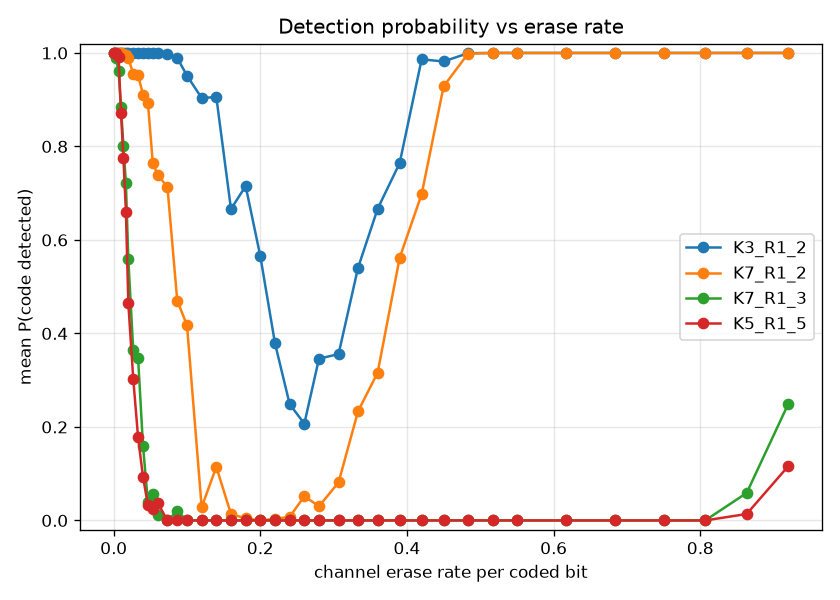
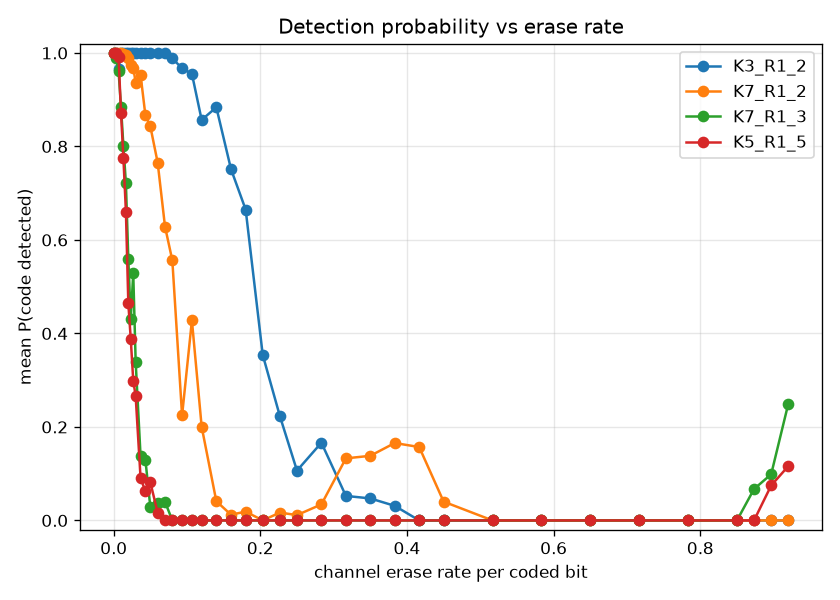
Update metrics

diff --git a/metrics/dv_metrics.c b/metrics/dv_metrics.c
@@ -346,11 +346,11 @@ static const double LOCK_ERASE_RATES[] = {
  * the code's relation window n*(k+1) - the short-window codes (K3_R1_2 most of
  * all) stay detectable far longer, so the flip/insert/delete grids run well past
  * the long-window collapse to follow the short-window descent (to ~0.25-0.30).
- * Points pack into the early collapse and along that descent. Erasures are their
- * own shape: the long-window codes collapse below ~0.06, while the short-window
- * codes dip to a minimum near 0.28 and then recover all the way back to 1.0 by
- * ~0.55 and hold it - so that grid samples the early collapse, the dip, and the
- * recovery densely, with a sparse flat tail. */
+ * Points pack into the early collapse and along that descent. Erasures share that
+ * window ordering and just collapse monotonically: the long-window codes are gone
+ * below ~0.06 while K3_R1_2 holds out to ~0.42, all settling to zero with only a
+ * small residual blip near full erasure - so the grid is dense through the early
+ * collapse and K3's descent (to ~0.45), with a light flat tail to 0.92. */
 static const double DETECT_FLIP_RATES[] = {
     0, 0.0017, 0.0033, 0.005, 0.0067, 0.0083, 0.01, 0.0117, 0.0133, 0.015,
     0.0167, 0.0183, 0.02, 0.0233, 0.0267, 0.03, 0.0333, 0.0367, 0.04,
@@ -367,10 +367,10 @@ static const double DETECT_DELETE_RATES[] = {
     0.09, 0.1, 0.11, 0.12, 0.13, 0.14, 0.15, 0.16, 0.1733, 0.1867, 0.2,
     0.2167, 0.2333, 0.25};
 static const double DETECT_ERASE_RATES[] = {
-    0, 0.0033, 0.0067, 0.01, 0.0133, 0.0167, 0.02, 0.0267, 0.0333, 0.04,
-    0.0467, 0.0533, 0.06, 0.0733, 0.0867, 0.1, 0.12, 0.14, 0.16, 0.18, 0.2,
-    0.22, 0.24, 0.26, 0.28, 0.3067, 0.3333, 0.36, 0.39, 0.42, 0.45, 0.4833,
-    0.5167, 0.55, 0.6167, 0.6833, 0.75, 0.8067, 0.8633, 0.92};
+    0, 0.0033, 0.0067, 0.01, 0.0133, 0.0167, 0.02, 0.0233, 0.0267, 0.03,
+    0.0367, 0.0433, 0.05, 0.06, 0.07, 0.08, 0.0933, 0.1067, 0.12, 0.14,
+    0.16, 0.18, 0.2033, 0.2267, 0.25, 0.2833, 0.3167, 0.35, 0.3833, 0.4167,
+    0.45, 0.5167, 0.5833, 0.65, 0.7167, 0.7833, 0.85, 0.8733, 0.8967, 0.92};
 
 /* Look up the rate grid for a (metric, impairment) pair, with its length via
  * *count. Indexed [metric][axis]; GRID() pairs each array with its own length. */

diff --git a/metrics/METRICS.md b/metrics/METRICS.md
@@ -167,13 +167,11 @@ ranking. The short-window codes (`K3_R1_2` most of all) therefore stay detectabl
 far longer, which is why the flip/insert/delete axes run out past 20% to follow
 their descent while the wide-window codes have long since collapsed.
 
-Erasures are a special shape. The wide-window codes collapse below ~6% as usual,
-but the short-window rate-1/2 codes (`K3_R1_2`, `K7_R1_2`) instead **dip to a
-minimum near 25% erasure and then recover all the way back to full detection by
-~45–50%**, holding it to the end. With most symbols blanked the surviving ones
-still pin down the narrow parity-check relations those codes rely on, so blind
-recovery comes back rather than failing — a genuine recovery, not the spurious
-self-satisfaction a degenerate check space would give.
+Erasures follow the same window ordering and simply collapse: the wide-window
+codes are gone below ~6%, `K7_R1_2` by ~10%, and `K3_R1_2` holds longest, fading
+to zero by ~42%. Detection then stays at zero — only a small residual blip
+appears near full erasure — so blind recovery degrades monotonically with erasure
+rate, with no rebound.
 
 ![detection probability vs flip rate](plots/detect_vs_flip.png)
 ![detection probability vs insert rate](plots/detect_vs_insert.png)